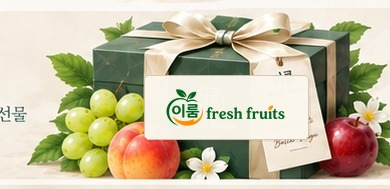
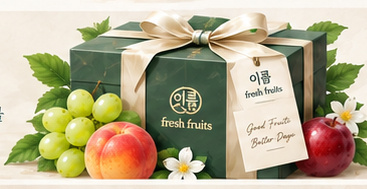
Add files via upload

diff --git a/public/iroom_assets/iroom-v8.js b/public/iroom_assets/iroom-v8.js
@@ -145,7 +145,9 @@
     updateSeasonControls();
     const preload=new Image();
     preload.onload=()=>{artwork.src=preload.src; requestAnimationFrame(()=>visual.classList.remove('is-changing'))};
-    preload.src=assets+data.art;
+    const heroUrl=assets+data.art;
+    visual.style.setProperty('--hero-image', `url("${heroUrl}")`);
+    preload.src=heroUrl;
     const ca=$('#curationArt'),ga=$('#giftArt'),pa=$('#premiumArt');
     if(ca)ca.src=assets+data.curation;if(ga)ga.src=assets+data.gift;if(pa)pa.src=assets+data.premium;
     $$('.premium-fruit-card:not(.seasonal-fruit-card)').forEach((card,i)=>{const n=(data.premiumFruits||[])[i],m=fruitMeta[n];if(!n||!m)return;card.dataset.fruit=n;const im=$('img',card),b=$('b',card),sm=$('small',card);if(im){im.src=assets+m[0];im.alt=n}if(b)b.textContent=n;if(sm)sm.textContent=m[1]});
@@ -217,13 +219,13 @@
   }
   function fillSearch(q){const box=$('#searchResults');if(!box)return;q=(q||'').trim();const list=allFruitNames.filter(n=>!q||n.includes(q));box.innerHTML=list.map(n=>`<button type="button" data-fruit="${n}">${n}</button>`).join('')||'<span style="color:#81786e">검색 결과가 없습니다.</span>'}
   function renderLogin(){
-    setModal('MEMBER LOGIN','로그인','이룸 회원으로 로그인하면 주문조회와 상담내역을 한곳에서 확인할 수 있습니다.',`
+    setModal('MEMBER','LOGIN','이룸 회원 로그인과 신규 회원가입을 한 창에서 이용할 수 있습니다.',`
       <form class="auth-form" id="loginForm">
         <label><span>아이디 또는 이메일</span><input name="account" autocomplete="username" required placeholder="아이디 또는 이메일"></label>
         <label><span>비밀번호</span><input name="password" type="password" autocomplete="current-password" required placeholder="비밀번호"></label>
-        <button class="primary-btn" type="submit">로그인</button>
-        <button class="kakao-login-btn" type="button" data-kakao-login>카카오 1초 로그인</button>
-        <p class="auth-help">아직 회원이 아니신가요? <button type="button" data-open-related="signup">회원가입</button></p>
+        <button class="primary-btn" type="submit">LOGIN</button>
+        <button class="kakao-login-btn" type="button" data-kakao-login>KAKAO LOGIN</button>
+        <div class="login-join-box"><span>처음 방문하셨나요?</span><button type="button" data-open-related="signup">SIGN UP · 회원가입</button></div>
       </form>`);
   }
   function renderSignup(){
@@ -338,11 +340,11 @@
       const d=await r.json();
       if(d.user){
         const nm=(d.user.name||d.user.username||'회원').replace(/[<>]/g,'');
-        wrap.innerHTML=`<button class="auth-link auth-user" type="button" data-modal="mypage">${nm}님</button><span aria-hidden="true">·</span><button class="auth-link" type="button" data-logout>로그아웃</button>`;
+        wrap.innerHTML=`<button class="auth-link auth-user" type="button" data-modal="mypage">${nm}님</button><span aria-hidden="true">·</span><button class="auth-link" type="button" data-logout>LOGOUT</button>`;
         return;
       }
     }catch(e){}
-    wrap.innerHTML='<button class="auth-link" type="button" data-modal="login">로그인</button><span aria-hidden="true">·</span><button class="auth-link" type="button" data-modal="signup">회원가입</button>';
+    wrap.innerHTML='<button class="auth-link auth-login-only" type="button" data-modal="login">LOGIN</button>';
   }
   async function submitLogin(form){
     const fd=new FormData(form);

diff --git a/public/iroom_assets/iroom-v8.css b/public/iroom_assets/iroom-v8.css
@@ -434,3 +434,84 @@ html[data-season="winter"] .season-visual>img{clip-path:inset(0 0 0 30%)}
   .season-copy-brand{font-size:18px}.season-copy-fix strong{font-size:22px}.season-copy-fix p{font-size:11px}.season-copy-fix small{display:none}
   .auth-grid{grid-template-columns:1fr}.auth-grid-wide{grid-column:auto}
 }
+
+/* IROOM4 V12 — show the complete approved hero artwork at a calmer scale. */
+.season-stage{
+  padding:22px 0 24px;
+  background:var(--season-wash-2,#fffaf4);
+}
+.season-visual{
+  position:relative;
+  width:min(100%, 1760px);
+  height:clamp(500px,31vw,590px);
+  min-height:0;
+  margin:0 auto;
+  overflow:hidden;
+  background:var(--season-wash-2,#fffaf4);
+  isolation:isolate;
+}
+/* faint atmosphere fills the wide screen; the real artwork itself is never cropped */
+.season-visual:before{
+  content:"";
+  position:absolute;
+  inset:-28px;
+  z-index:0;
+  width:auto!important;
+  background-image:var(--hero-image);
+  background-size:cover;
+  background-position:center;
+  filter:blur(24px) saturate(.75);
+  opacity:.11;
+  transform:scale(1.03);
+  pointer-events:none;
+}
+.season-visual:after{
+  content:"";
+  position:absolute;
+  inset:0;
+  z-index:1;
+  background:linear-gradient(90deg,var(--season-wash-2,#fffaf4) 0%,rgba(255,255,255,.04) 20%,rgba(255,255,255,.04) 80%,var(--season-wash-2,#fffaf4) 100%);
+  pointer-events:none;
+  mix-blend-mode:normal;
+}
+.season-visual>img{
+  position:relative!important;
+  z-index:2;
+  display:block;
+  width:auto!important;
+  height:100%!important;
+  max-width:100%!important;
+  max-height:100%!important;
+  min-height:0!important;
+  margin:0 auto;
+  inset:auto!important;
+  transform:none!important;
+  clip-path:none!important;
+  object-fit:contain!important;
+  object-position:center!important;
+  filter:saturate(.93) contrast(.97) brightness(1.015);
+}
+/* The approved artwork already contains the correct seasonal typography. */
+.season-copy-fix{display:none!important}
+
+.header-auth{min-width:58px;justify-content:center}
+.auth-login-only{font-family:Georgia,"Times New Roman",serif;letter-spacing:.08em;font-size:12px}
+
+/* integrated box art: no artificial HTML badge or pasted-looking white label */
+.selection-art,.premium-art{background:color-mix(in srgb,var(--season-wash,#fbf1e6) 72%,white 28%)}
+
+@media(max-width:1180px){
+  .season-visual{height:520px}
+}
+@media(max-width:900px){
+  .season-stage{padding:14px 0 18px}
+  .season-visual{height:470px}
+}
+@media(max-width:760px){
+  .season-stage{padding:8px 0 12px}
+  .season-visual{height:auto;aspect-ratio:1600/930}
+  .season-visual>img{width:100%!important;height:auto!important}
+}
+.login-join-box{margin-top:4px;padding:15px 16px;border:1px solid #e8d7c8;border-radius:14px;background:#fffaf4;display:flex;align-items:center;justify-content:space-between;gap:12px;color:#786e65;font-size:12px}
+.login-join-box button{border:0;background:transparent;color:#0e5a48;font-weight:700;letter-spacing:.03em;text-decoration:underline;text-underline-offset:4px;padding:4px}
+@media(max-width:520px){.login-join-box{align-items:flex-start;flex-direction:column}}

diff --git a/public/index.html b/public/index.html
@@ -33,9 +33,7 @@
           <svg viewBox="0 0 24 24" aria-hidden="true"><circle cx="11" cy="11" r="6.5"></circle><path d="m16 16 4.2 4.2"></path></svg>
         </button>
         <div class="header-auth" aria-label="회원 메뉴">
-          <button class="auth-link" type="button" data-modal="login">로그인</button>
-          <span aria-hidden="true">·</span>
-          <button class="auth-link" type="button" data-modal="signup">회원가입</button>
+          <button class="auth-link auth-login-only" type="button" data-modal="login">LOGIN</button>
         </div>
         <button class="icon-btn" type="button" data-modal="mypage" aria-label="마이페이지">
           <svg viewBox="0 0 24 24" aria-hidden="true"><circle cx="12" cy="7" r="3.4"></circle><path d="M5.5 21c.5-5 2.8-7.5 6.5-7.5S18 16 18.5 21"></path></svg>
